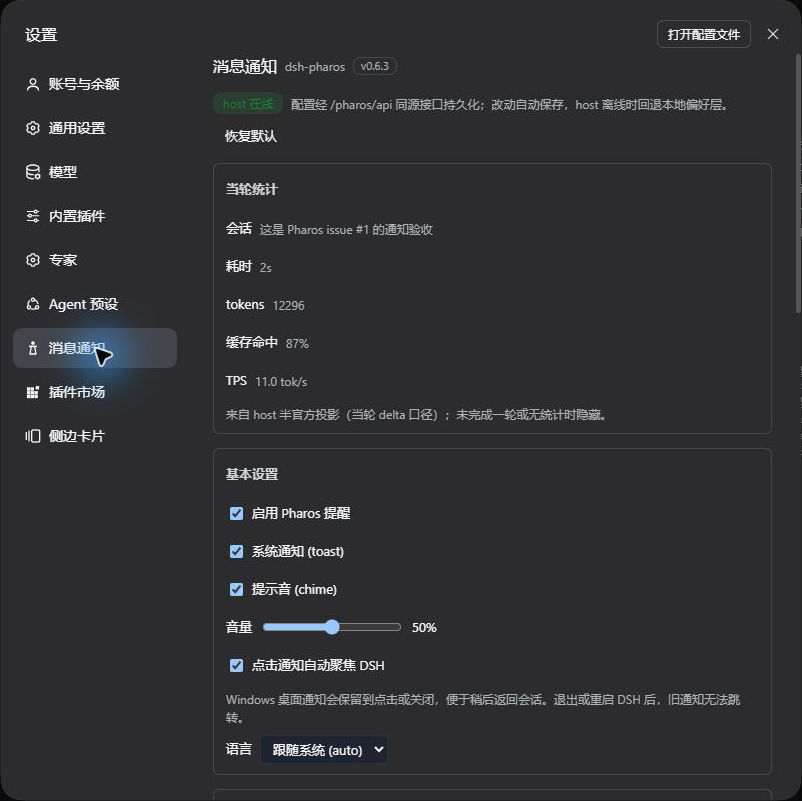
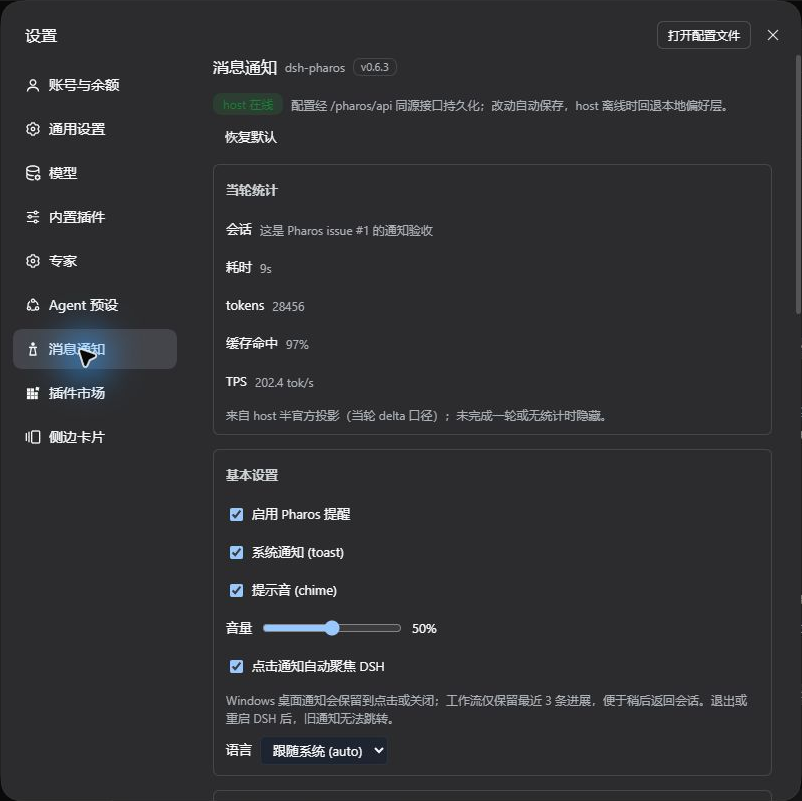
docs: refresh Windows settings screenshots after workflow capacity fix

diff --git a/docs/screenshot-guide.md b/docs/screenshot-guide.md
@@ -2,7 +2,7 @@
 
 以根目录 `screenshots.json` 为入库清单，README 的图片引用须与清单一致。当前前两张是保留的 macOS 历史通知示例，其余为 2026-10-11 在 Windows DSH 本机拍摄的通知修复候选，版本标注 v0.6.3；原图入库提交为 `c334fb4`，真实裁切提交为 `2938c5d`。截图不表示已经发布新版本。
 
-后续 `cf214de` 加入工作流三个短 tag 槽位，并在基本设置中新增“工作流仅保留最近 3 条进展”的提示。这轮文字尚未重拍，现有基本设置/提醒时机截图不能证明该新提示已显示；待短 tag 点击验收结束后更新，保留真实截图裁切方式。
+后续 `cf214de` 加入工作流三个短 tag 槽位，并在基本设置中新增“工作流仅保留最近 3 条进展”的提示。基本设置、提醒时机两张已从加载该代码的 Windows DSH 重拍，只做真实裁切；两张均保留新提示，提醒时机图展开三档选项并保持原有“仅页面隐藏时提醒”选择。截图证明设置文字已显示，不代替短 tag 系统通知点击验收。
 
 | 文件 | 平台与内容 | 重拍检查点 |
 | --- | --- | --- |
@@ -10,13 +10,13 @@
 | `screenshot-2-workflow-notifications.png` | macOS 工作流通知栈 | 不用来证明 Windows 工作流实机结果；主会话完成位于图中最上方 |
 | `screenshot-3-overview.png` | Windows 插件详情 | 灯塔图标、实际安装版本与当前描述；不修改图中的版本文字 |
 | `screenshot-4-settings-basic.png` | Windows 设置顶部 | 标题版本、当轮统计、自动保存说明、自动聚焦、Windows 通知保留和重启限制、完整语言选项 |
-| `screenshot-5-settings-timing.png` | Windows 提醒时机与免打扰 | 展开完成提醒三档，但保持原选择；不再使用旧复选框图 |
+| `screenshot-5-settings-timing.png` | Windows 基本设置与提醒时机 | 新容量提示完整；展开完成提醒三档，但保持原选择；免打扰详见下一张 |
 | `screenshot-6-settings-filter-webhook.png` | Windows 免打扰、过滤、Webhook 空列表 | 工作流开关及重启提示完整，Webhook 文案为自动保存 |
 | `screenshot-7-plugins-windows.png` | Windows 已安装插件列表 | 灯塔图标和当前描述，不保留旧 alpha 描述 |
 | `screenshot-8-settings-debug.png` | Windows 高级、测试、Debug | 测试按钮只验证页内提示和声音的说明，以及自动保存状态；不是系统通知验收证明 |
 | `screenshot-9-webhook-formats.png` | Windows Webhook 格式 | 简洁、详细、自定义三档；示例明确禁用且不含真实密钥 |
 
-当前 Windows 图片由真实窗口捕获结果裁切而来，只去掉空白和无关背景，未缩放、合成界面、改写文字或绘制通知。原始窗口尺寸为 1920×1032；插件详情图裁为 980×530，已安装插件列表裁为 990×580，五张设置图均裁为 802×801，保留完整设置对话框和展开的提醒选项。原始完整窗口图已备份到本机 `%TEMP%/pharos-screenshot-raw-c334fb4`。
+当前 Windows 图片由真实窗口捕获结果裁切而来，只去掉空白和无关背景，未缩放、合成界面、改写文字或绘制通知。原始窗口尺寸为 1920×1032；插件详情图裁为 980×530，已安装插件列表裁为 990×580，五张设置图均裁为 802×801，保留完整设置对话框和展开的提醒选项。原始完整窗口图已备份到本机 `%TEMP%/pharos-screenshot-raw-c334fb4`；重拍的基本设置、提醒时机原图另存于 `%TEMP%/pharos-screenshot-raw-cf214de`，裁切边界为 x=559、y=115、宽=802、高=801。
 
 本次拍摄前备份本机安装副本的 package.json 到 `%TEMP%/pharos-screenshots-package-before.json`，再同步仓库元数据并正常重启 DSH，避免代码与详情页描述来自不同版本。为展示 Webhook 格式，仅临时加入一个 enabled=false、无 secret、地址为 `https://example.invalid/pharos` 的示例；拍完已恢复 webhooks=[]，读回 enabled=true、autoFocus=true。没有执行 Webhook 推送，也没有改变通知权限或操作系统设置。
 

diff --git a/docs/issue-1-windows-notifications.md b/docs/issue-1-windows-notifications.md
@@ -136,7 +136,11 @@ B 点击后诊断中也有 `focus-requested, status=200`；该字段只记录 HT
 
 评审的 Origin 归一化建议不作为本次必要修复：localhost 与 127.0.0.1 属不同 Origin，不能简单等同放行；现有来源围栏与路由矩阵仍通过。macOS 没有此次容量规则，未做 macOS 实机重测。
 
-本轮点击验收尚待用户操作：已明确将 DSH 切到 strat，读取标题确认后最小化并把 Sourcetree 放到前台，请用户点击上述短标甲结束通知。等待期间未再激活 DSH，不能把之前 remote 的点击通过沿用为本轮短 tag 的实机结果。临时配置已通过 API 恢复 workflowEvents=false、workflowLog=false、sound=true、autoFocus=true，并读回确认；客户端设置的收尾读回在点击验收后进行。
+本轮点击验收尚待用户操作：请用户点击上述短标甲结束通知。等待期间曾打开 DSH 核对客户端配置并补拍设置图，随后关闭设置页，确认仍停在 strat，再次最小化并把 Sourcetree 放到前台；没有重启进程或更换会话。不能把之前 remote 的点击通过沿用为本轮短 tag 的实机结果。
+
+临时配置已通过 API 恢复 workflowEvents=false、workflowLog=false、sound=true、autoFocus=true，并读回确认；设置表单也显示工作流两开关关闭、声音与自动聚焦开启。客户端 Debug 仍保留进程载入时的 workflowEvents=true、workflowLog=true，sound=true、autoFocus=true、currentQuiet=true，当前会话为 strat，navLog=[]，三个槽位仍指向甲、丙及汇总阶段。服务端关闭阻止后续工作流推送；为保留当前通知的点击监听，进程重启及客户端配置最终读回须在点击验收之后完成。
+
+基本设置和提醒时机两张已按实际安装的 `cf214de` 客户端重拍，并仅做 802×801 真实裁切，保留新容量提示和完成提醒三档选项；这不代替系统通知点击结果。
 
 ## 再次排查
 

diff --git a/README.md b/README.md
@@ -48,7 +48,7 @@ DSH 桌面端守望提醒插件：**「需要你操作」+「回复完成」+「
 
 ![Windows Webhook 消息格式：禁用示例中的简洁、详细、自定义三档](assets/screenshot-9-webhook-formats.png)
 
-> 前两张保留为 macOS 历史真实通知示例；其余截图于 2026-10-11 在 Windows 本机拍摄，界面标注 v0.6.3，原图入库于 `c334fb4`、裁切于 `2938c5d`，尚非新版本发布。后续工作流容量修复新增的“最近 3 条”设置提示尚未重拍。Windows 图片仅裁掉空白和无关背景，保留真实文字与控件。设置页截图展示当轮统计、基本设置、三档提醒时机、免打扰、过滤、Webhook、高级、测试与 Debug。Webhook 格式图使用已禁用的临时示例和 `example.invalid` 地址，拍摄后已恢复空列表，没有配置真实密钥。
+> 前两张保留为 macOS 历史真实通知示例；其余截图于 2026-10-11 在 Windows 本机拍摄，界面标注 v0.6.3，尚非新版本发布。基本设置与提醒时机两张已按 `cf214de` 实际安装代码重拍，显示“最近 3 条”工作流进展提示；其余原图入库于 `c334fb4`、裁切于 `2938c5d`。Windows 图片仅裁掉空白和无关背景，保留真实文字与控件。设置页截图展示当轮统计、基本设置、三档提醒时机、免打扰、过滤、Webhook、高级、测试与 Debug。Webhook 格式图使用已禁用的临时示例和 `example.invalid` 地址，拍摄后已恢复空列表，没有配置真实密钥。
 
 工作流图来自 macOS 的真实多 agent 工作流（3 个并发 agent）通知栈，正文带工作流名 `multi-agent-audit`；最上方「任务已完成」是主会话整体完成。它不代表 Windows 工作流实机验收。Windows 的通知显示和点击结果见 [验收记录](docs/issue-1-windows-notifications.md)；这里尚未附 Windows 系统通知横幅截图。截图维护清单见 [截图指南](docs/screenshot-guide.md)。
 
